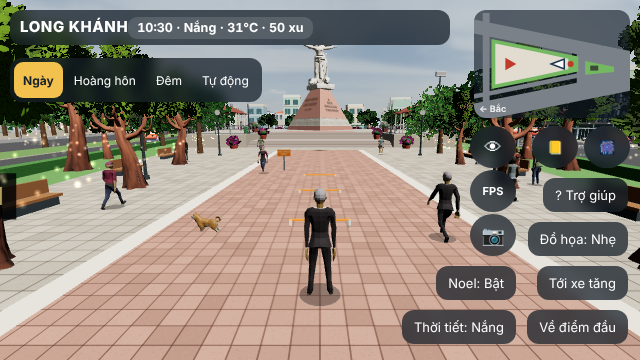
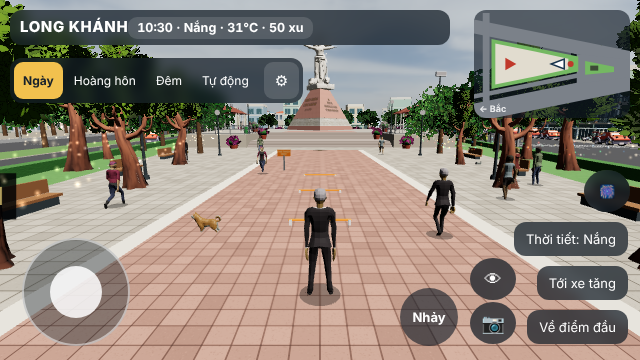
HUD: settings menu in the top bar, jump button on the right
- New ⚙ Cài đặt button in the lighting bar opens a menu with Nhiệm vụ, Noel, Đồ họa, Trợ giúp and FPS (× and Esc close it; it closes after opening help or the journal).
- Jump button moved to the right side (portrait: above the right-hand column; landscape: left of the camera button).
- Right-hand buttons regrouped; no overlaps at 1280×720, 640×360 or 390×844.

Claude-Session: https://claude.ai/code/session_01VtRo3mGsFndxhjUjyusQVZ

diff --git a/index.html b/index.html
@@ -17,10 +17,19 @@
   #shot { bottom: 22px; right: 132px; width: 46px; height: 42px; padding: 0; font-size: 19px; border-radius: 50%; }
   .note p.done { opacity: .6; text-decoration: line-through; }
   #hud.off { visibility: hidden; pointer-events: none; }
-  #hudhide { bottom: 118px; right: 132px; width: 46px; height: 42px; padding: 0; font-size: 17px; border-radius: 50%; }
+  #hudhide { bottom: 70px; right: 132px; width: 46px; height: 42px; padding: 0; font-size: 17px; border-radius: 50%; }
   #hudshow { position: fixed; top: 10px; right: 10px; z-index: 30; width: 46px; height: 46px; border: 0; border-radius: 50%; background: rgba(18,28,38,.4); color: rgba(255,255,255,.75); font-size: 18px; cursor: pointer; display: none; }
   #ghostjoy { position: fixed; left: 0; bottom: 0; width: 190px; height: 190px; z-index: 25; display: none; touch-action: none; }
-  #evbtn { bottom: 310px; } #jrnbtn { bottom: 358px; } #evbtn.live { background: rgba(160,60,20,.85); }
+  #evbtn { bottom: 166px; }
+  #bar #setbtn { margin-left: 4px; background: rgba(255,255,255,.14); font-size: 15px; padding: 9px 11px; } #bar #setbtn[aria-expanded="true"] { background: #f2c14e; color: #17212b; }
+  #bar #setbtn .lbl { font-size: 12px; }
+  #setmenu { position: fixed; left: 10px; top: 176px; z-index: 9; display: none; flex-direction: column; gap: 6px; padding: 8px; width: 210px; box-sizing: border-box; max-height: calc(100vh - 20px); overflow-y: auto; }
+  #setmenu.open { display: flex; }
+  @media (max-width: 430px) { #bar #setbtn .lbl { display: none; } }
+  #setmenu .sethead { display: flex; align-items: center; justify-content: space-between; padding: 0 0 2px 6px; font-size: 14px; }
+  #setmenu .x { width: 44px; height: 44px; border: 0; border-radius: 10px; background: rgba(255,255,255,.14); color: #fff; font-size: 22px; cursor: pointer; }
+  #setmenu .btn { position: static; width: 100%; height: auto; min-height: 44px; border-radius: 10px; padding: 10px 12px; font-size: 13px; text-align: left; background: rgba(255,255,255,.1); }
+  #setmenu .btn small { opacity: .6; float: right; } #evbtn.live { background: rgba(160,60,20,.85); }
   #evpanel { position: fixed; right: 10px; top: 120px; z-index: 8; display: none; box-sizing: border-box; width: min(340px, calc(100vw - 20px)); padding: 13px 14px 12px; font-size: 13.5px; line-height: 1.45; background: rgba(14,22,31,.94); border: 1px solid rgba(255,255,255,.18); max-height: calc(100vh - 140px); overflow-y: auto; }
   #evpanel h2 { margin: 0 52px 6px 0; font-size: 15px; } #evpanel p { margin: 0 0 8px; } #evpanel .x { position: absolute; top: 5px; right: 5px; width: 44px; height: 44px; padding: 0; font-size: 22px; border: 0; border-radius: 10px; background: rgba(255,255,255,.16); color: #fff; cursor: pointer; }
   #evpanel label { display: flex; align-items: center; gap: 8px; margin: 0 0 6px; cursor: pointer; } #evpanel input[type=radio], #evpanel input[type=checkbox] { width: 20px; height: 20px; }
@@ -46,9 +55,9 @@
   #bar button[aria-pressed="true"] { background: #f2c14e; color: #17212b; font-weight: 700; }
   #simnote { position: fixed; top: 176px; left: 12px; font-size: 11px; padding: 3px 8px; border-radius: 8px; background: rgba(18, 28, 38, .72); display: none; pointer-events: none; max-width: calc(100vw - 40px); }
   .btn { position: fixed; right: 12px; border: 0; color: #fff; font: inherit; font-size: 13px; padding: 11px 14px; cursor: pointer; }
-  #home { bottom: 22px; } #tank { bottom: 70px; } #qual { bottom: 118px; } #help { bottom: 166px; } #wx { bottom: 214px; } #xmas { bottom: 262px; }
+  #home { bottom: 22px; } #tank { bottom: 70px; } #wx { bottom: 118px; }
   button:focus-visible { outline: 3px solid #ffe08a; outline-offset: 2px; }
-  #jumpbtn { position: fixed; left: 34px; bottom: 166px; width: 56px; height: 56px; border: 0; border-radius: 50%; background: rgba(18,28,38,.62); color: #fff; font: inherit; font-size: 13px; font-weight: 700; display: none; z-index: 5; touch-action: none; }
+  #jumpbtn { position: fixed; right: 16px; bottom: 216px; width: 60px; height: 60px; border: 0; border-radius: 50%; background: rgba(18,28,38,.62); color: #fff; font: inherit; font-size: 13px; font-weight: 700; display: none; z-index: 5; touch-action: none; }
   #joy { position: fixed; left: 22px; bottom: 26px; width: 124px; height: 124px; border-radius: 50%;
          background: rgba(18, 28, 38, .38); border: 2px solid rgba(255,255,255,.5); touch-action: none; display: none; }
   #knob { position: absolute; left: 50%; top: 50%; width: 52px; height: 52px; margin: -26px 0 0 -26px; border-radius: 50%; background: rgba(255,255,255,.85); pointer-events: none; }
@@ -67,8 +76,8 @@
     #bar { top: 58px; max-width: calc(100vw - 190px); } #simnote { top: 104px; }
     #notes { top: 108px; right: 200px; max-height: calc(100vh - 118px); }
     #joy { width: 104px; height: 104px; bottom: 14px; }
-    #title .sub { display: none; } #title { padding: 5px 10px 6px; } #title .chip { margin-top: 2px; } #shot { bottom: 104px; right: 124px; } #fps { bottom: 148px; right: 124px; } #hudhide { bottom: 192px; right: 124px; } #act { bottom: 14px; left: 42%; } #act2 { bottom: 68px; left: 42%; } #evbtn { bottom: 192px; right: 10px; width: 46px; padding: 0; height: 42px; border-radius: 50%; } #jrnbtn { bottom: 192px; right: 62px; width: 46px; padding: 0; height: 42px; border-radius: 50%; } #evbtn .lbl, #jrnbtn .lbl { display: none; } #evpanel { top: 74px; } #tour { bottom: 8px; width: min(430px, calc(100vw - 300px)); } #perf { bottom: 8px; left: 130px; }
-    #help { bottom: 148px; } #qual { bottom: 104px; } #tank { bottom: 60px; } #home { bottom: 16px; } .btn { padding: 9px 12px; } #wx { bottom: 16px; right: 124px; } #xmas { bottom: 60px; right: 124px; }
+    #title .sub { display: none; } #title { padding: 5px 10px 6px; } #title .chip { margin-top: 2px; } #shot { bottom: 16px; right: 124px; } #hudhide { bottom: 60px; right: 124px; } #act { bottom: 14px; left: 42%; } #act2 { bottom: 68px; left: 42%; } #evbtn { bottom: 148px; right: 10px; width: 46px; padding: 0; height: 42px; border-radius: 50%; } #evbtn .lbl, #bar #setbtn .lbl { display: none; } #evpanel { top: 74px; } #tour { bottom: 8px; width: min(430px, calc(100vw - 300px)); } #perf { bottom: 8px; left: 130px; } #jumpbtn { right: 182px; bottom: 14px; width: 58px; height: 58px; }
+    #tank { bottom: 60px; } #home { bottom: 16px; } .btn { padding: 9px 12px; } #wx { bottom: 104px; } #setmenu { display: none; width: 320px; } #setmenu.open { display: grid; grid-template-columns: 1fr 1fr; } #setmenu .sethead { grid-column: 1 / -1; } #setmenu .btn { padding: 8px 10px; min-height: 40px; }
   }
   #boot { position: fixed; inset: 0; z-index: 20; display: flex; flex-direction: column; align-items: center; justify-content: center; gap: 14px; padding: 24px; text-align: center;
           background: linear-gradient(#1c2f45, #0f1a27); transition: opacity .5s; }
@@ -89,18 +98,22 @@
 <div id="title" class="panel">LONG KHÁNH<span class="sub">Công viên Tượng đài Chiến thắng · Đồng Nai</span><span class="chip" id="chip" title="Giờ, thời tiết và nhiệt độ mô phỏng">10:30 · Nắng · 31°C</span></div>
 <canvas id="map"></canvas>
 <div id="bar" class="panel" role="group" aria-label="Ánh sáng">
-  <button data-mode="day" aria-pressed="true">Ngày</button><button data-mode="sunset" aria-pressed="false">Hoàng hôn</button><button data-mode="night" aria-pressed="false">Đêm</button><button data-mode="auto" aria-pressed="false">Tự động</button>
+  <button data-mode="day" aria-pressed="true">Ngày</button><button data-mode="sunset" aria-pressed="false">Hoàng hôn</button><button data-mode="night" aria-pressed="false">Đêm</button><button data-mode="auto" aria-pressed="false">Tự động</button><button id="setbtn" type="button" aria-haspopup="true" aria-expanded="false" aria-controls="setmenu" aria-label="Cài đặt / Settings">⚙<span class="lbl"> Cài đặt</span></button>
+</div>
+<div id="setmenu" class="panel" role="menu" aria-label="Cài đặt / Settings"><div class="sethead"><b>Cài đặt</b><button class="x" type="button" aria-label="Đóng cài đặt">×</button></div>
+<button id="jrnbtn" class="panel btn" role="menuitem" aria-label="Sổ nhiệm vụ / Quest journal (J)">📒 Nhiệm vụ <small>J</small></button>
+<button id="xmas" class="panel btn" role="menuitem" aria-pressed="true">Noel: Bật</button>
+<button id="qual" class="panel btn" role="menuitem">Đồ họa</button>
+<button id="help" class="panel btn" role="menuitem" aria-label="Hướng dẫn và ghi công">? Trợ giúp</button>
+<button id="fps" class="panel btn" role="menuitem" aria-label="Bật tắt bảng hiệu năng" aria-pressed="false">FPS</button>
 </div>
 <div id="simnote">Mô phỏng: 10 phút = 1 ngày (không phải giờ thật)</div>
 <div id="notes" aria-live="polite"></div>
 <div id="joy"><div id="knob"></div></div>
 <button id="jumpbtn" type="button" aria-label="Nhảy / Jump">Nhảy</button>
-<button id="help" class="panel btn" aria-label="Hướng dẫn và ghi công">? Trợ giúp</button>
 <button id="shot" class="panel btn" aria-label="Chụp ảnh lưu niệm">📷</button>
-<button id="fps" class="panel btn" aria-label="Bật tắt bảng hiệu năng" aria-pressed="false">FPS</button>
 <div id="perf" class="panel" role="status" aria-live="off"><span id="perftext"></span>
 <button id="benchgo" type="button">Chạy đo mức này</button><button id="benchall" type="button">Đo cả 3 mức</button></div>
-<button id="jrnbtn" class="panel btn" aria-label="Sổ nhiệm vụ / Quest journal (J)">📒<span class="lbl"> Nhiệm vụ</span></button>
 <button id="evbtn" class="panel btn" aria-haspopup="dialog" aria-label="Sự kiện / Events">🎆<span class="lbl"> Sự kiện</span></button>
 <div id="evpanel" class="panel" role="dialog" aria-labelledby="evtitle"><button class="x" type="button" aria-label="Đóng bảng sự kiện (không dừng buổi diễn)">×</button><h2 id="evtitle">Sự kiện · Events</h2>
 <p>Buổi diễn pháo hoa giả lập trong trò chơi, không phải lịch sự kiện thật của thành phố.</p>
@@ -108,9 +121,7 @@
 <div class="btns"><button class="b go" id="evstart" type="button">Bắt đầu · Start</button><button class="b" id="evstop" type="button" disabled>Dừng · Stop</button><button class="b" id="evreplay" type="button" disabled>Xem lại · Replay</button></div>
 <p id="evstat" aria-live="polite"></p>
 <label><input type="checkbox" id="evsound"> Âm thanh (tắt sẵn)</label><label>Âm lượng <input type="range" id="evvol" min="0" max="1" step="0.05" value="0.5" style="flex:1"></label><label><input type="checkbox" id="evreduce"> Giảm hiệu ứng</label></div>
-<button id="xmas" class="panel btn" aria-pressed="true">Noel: Bật</button>
 <button id="wx" class="panel btn">Thời tiết: Nắng</button>
-<button id="qual" class="panel btn">Đồ họa</button>
 <button id="tank" class="panel btn">Tới xe tăng</button>
 <button id="home" class="panel btn">Về điểm đầu</button>
 <button id="hudhide" class="panel btn" aria-label="Ẩn giao diện / Hide HUD" title="Ẩn giao diện / Hide HUD (H)">👁</button>
@@ -1788,7 +1799,7 @@
   }
   function setMode(m, save) {
     if (!HOURS[m] && m !== 'auto') m = 'day'; DAY.mode = m;
-    Array.prototype.forEach.call($('bar').querySelectorAll('button'), function (b) { b.setAttribute('aria-pressed', b.getAttribute('data-mode') === m ? 'true' : 'false'); });
+    Array.prototype.forEach.call($('bar').querySelectorAll('button[data-mode]'), function (b) { b.setAttribute('aria-pressed', b.getAttribute('data-mode') === m ? 'true' : 'false'); });
     $('simnote').style.display = m === 'auto' ? 'block' : 'none';
     if (m !== 'auto' && REDUCED) DAY.h = HOURS[m];
     if (save) { try { localStorage.setItem('lk-light-mode', m); } catch (e) {} }
@@ -1805,7 +1816,7 @@
     DAY.acc2 = (DAY.acc2 || 0) + dt;
     if (Math.abs(DAY.h - DAY.applied) > 1e-4 || DAY.shadowT < 0 || DAY.acc2 > 0.5) { DAY.acc2 = 0; applyLight(DAY.h); }
   }
-  Array.prototype.forEach.call($('bar').querySelectorAll('button'), function (b) { b.addEventListener('click', function () { var m = b.getAttribute('data-mode'); if (m === 'sunset' && DAY.mode === 'sunset' && HSKY.ok) HSKY.toggle(); setMode(m, true); b.blur(); }); });
+  Array.prototype.forEach.call($('bar').querySelectorAll('button[data-mode]'), function (b) { b.addEventListener('click', function () { var m = b.getAttribute('data-mode'); if (m === 'sunset' && DAY.mode === 'sunset' && HSKY.ok) HSKY.toggle(); setMode(m, true); b.blur(); }); });
   (function () { var m = 'day'; try { m = localStorage.getItem('lk-light-mode') || 'day'; } catch (e) {} setMode(m, false); if (m !== 'auto') DAY.h = HOURS[DAY.mode]; })();
 
   // ---------- player: third person only. A visible avatar walks; the camera orbits behind it and never enters the body ----------
@@ -1880,6 +1891,18 @@
   // ---------- input ----------
   var keys = {}, joy = { x: 0, y: 0, id: null }, look = { id: null, x: 0, y: 0 };
   if (IS_TOUCH) { $('joy').style.display = 'block'; $('jumpbtn').style.display = 'block'; }
+  (function () {
+    var b = $('setbtn'), m = $('setmenu');
+    function place() { var r = $('bar').getBoundingClientRect(), br = b.getBoundingClientRect(); m.style.top = Math.round(r.bottom + 6) + 'px'; m.style.maxHeight = Math.max(120, innerHeight - r.bottom - 16) + 'px'; m.style.left = Math.round(Math.max(10, Math.min(br.left, innerWidth - m.offsetWidth - 10))) + 'px'; }
+    function set(open) { m.classList.toggle('open', open); b.setAttribute('aria-expanded', open ? 'true' : 'false'); if (open) place(); }
+    window.SETMENU = { open: function () { return m.classList.contains('open'); }, set: set };
+    b.addEventListener('click', function (e) { e.stopPropagation(); set(!m.classList.contains('open')); b.blur(); });
+    m.querySelector('.x').addEventListener('click', function () { set(false); });
+    ['help', 'jrnbtn'].forEach(function (id) { $(id).addEventListener('click', function () { set(false); }); });
+    addEventListener('pointerdown', function (e) { if (m.classList.contains('open') && !m.contains(e.target) && e.target !== b && !b.contains(e.target)) set(false); });
+    addEventListener('keydown', function (e) { if (e.key === 'Escape' && m.classList.contains('open')) { set(false); e.stopImmediatePropagation(); e.preventDefault(); } }, true);
+    addEventListener('resize', function () { if (m.classList.contains('open')) place(); });
+  })();
   $('jumpbtn').addEventListener('pointerdown', function (e) { e.preventDefault(); e.stopPropagation(); JP.want = true; });
   function onUi(e) { var t = e.target; return !!(t && t.closest && t.closest('button, a, .note')); }
   window.addEventListener('keydown', function (e) {

diff --git a/README.md b/README.md
@@ -8,9 +8,10 @@ Created by **Mike Do X Claude**.
 
 ## Controls
 
-- Move: WASD / arrow keys, or the joystick on phones. Camera: drag. Jump: **Space**, or **Nhảy** on phones.
+- Move: WASD / arrow keys, or the joystick on phones. Camera: drag. Jump: **Space**, or the **Nhảy** button on the right on phones.
+- ⚙ **Cài đặt** (in the lighting bar at the top) holds Nhiệm vụ, Noel, Đồ họa, Trợ giúp and FPS.
 - Interact: **E** (or the yellow button). At a table with food in your bag, **F** or the blue button: *Ngồi ăn / Sit & Eat*. Press E again to stand.
-- **J** or 📒: side-quest journal. 🎆: fireworks events (Start, Stop, Replay; sound off by default). 👁 or **H**: hide the HUD (E and Space still work).
+- **J** or ⚙ → Nhiệm vụ: side-quest journal. 🎆: fireworks events (Start, Stop, Replay; sound off by default). 👁 or **H**: hide the HUD (E and Space still work).
 - Esc closes the topmost dialog; every card has × and –.
 
 ## Gameplay additions
